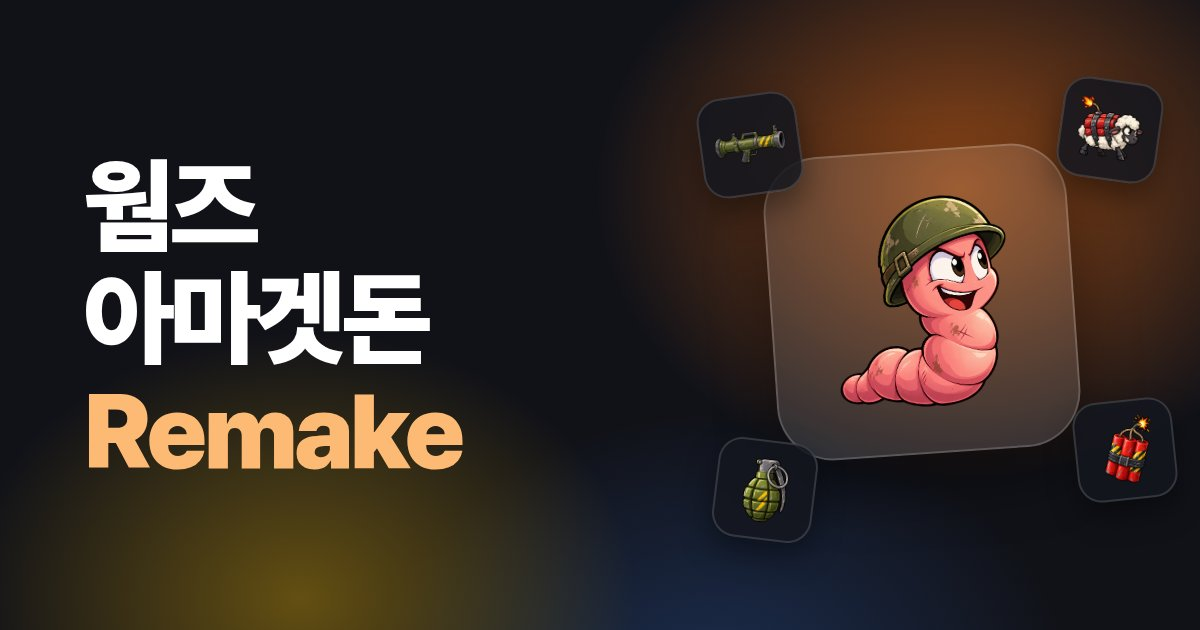
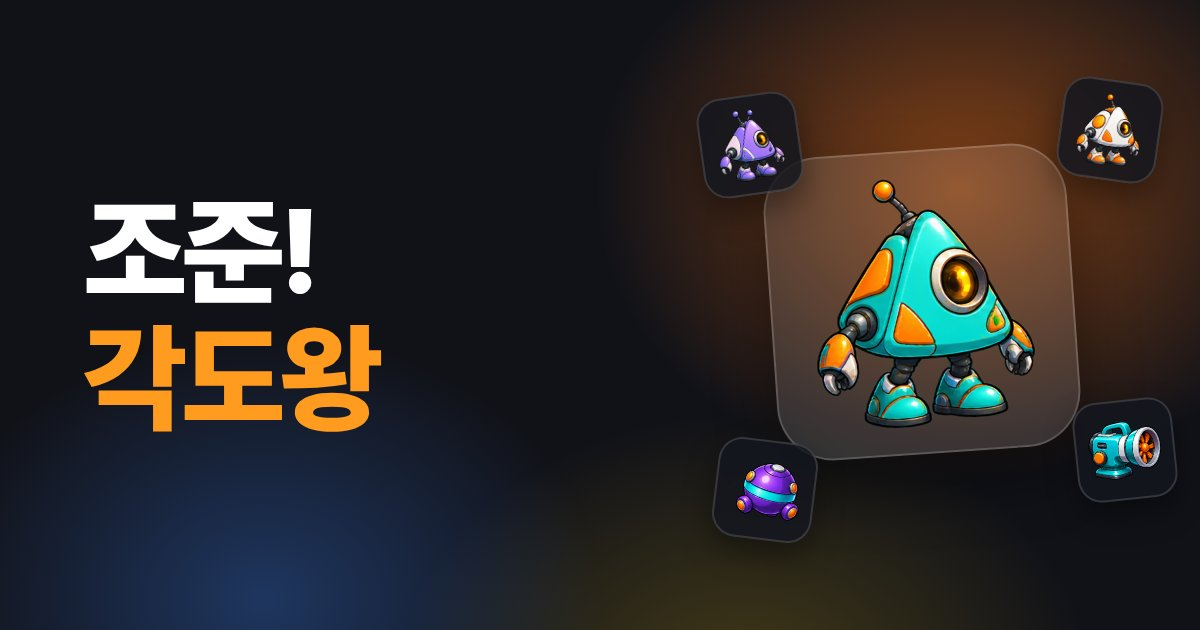
웜즈 카드를 '조준! 각도왕'으로 바꾸고 수업용에 뚝딱 바이브 공작소 추가 (#49)
- 여가용 카드 이름·설명·아이콘·커버(로봇 캐릭터, ?v=20261025)를 앱의 새 이름에 맞춤
- 수업용 마지막(생각의 갈림길 AI 뒤)에 뚝딱 바이브 공작소 카드·커버 추가
- 스킬 앱 목록·배치 메모 반영

Claude-Session: https://claude.ai/code/session_01NaW5r8WBzNy5B2e9iMgdZz

diff --git a/index.html b/index.html
@@ -889,6 +889,16 @@
                 url: 'https://gmlduqzhd123-lab.github.io/Thinking/'
             },
             {
+                id: 'vibe-for-u',
+                cover: 'covers/vibe-for-u.jpg',
+                accent: '#8b5cf6',
+                name: '뚝딱 바이브 공작소',
+                category: '수업용',
+                icon: '🛠',
+                desc: '목표→요청→실행→검사·수정→설명으로 바이브 코딩을 체험하는 12개 미션 (초등 5~6학년)',
+                url: 'https://gmlduqzhd123-lab.github.io/Vibe-for-U/'
+            },
+            {
                 id: 'for-teacher',
                 featured: true,
                 cover: 'covers/for-teacher.jpg',
@@ -1001,12 +1011,12 @@
             },
             {
                 id: 'worms',
-                cover: 'covers/worms.jpg',
+                cover: 'covers/worms.jpg?v=20261025',
                 accent: '#f97316',
-                name: '웜즈 아마겟돈(Remake)',
+                name: '조준! 각도왕',
                 category: '여가용',
-                icon: '🪱',
-                desc: '바람을 읽고 한 방을 노리는 턴제 포격전 · 10가지 전장 테마, CPU 대전, 설치 없이 바로',
+                icon: '🎯',
+                desc: '각도와 바람을 읽고 조준하는 수학 각도 학습 게임 · CPU·2인 턴제 대전',
                 url: 'https://gmlduqzhd123-lab.github.io/Worms/'
             },
             {

diff --git a/.claude/skills/yeopssam-webapps/references/top-buttons-check.md b/.claude/skills/yeopssam-webapps/references/top-buttons-check.md
@@ -47,5 +47,5 @@
 - 패들렛 정리함: 1줄 = 제목 + 설치·QR, 2줄 = 「로컬 가져오기」.
 - 한글 마감실: 1줄 = 「한 한글 마감실」 + 설치·QR, 2줄 = 메뉴·시험판 표시.
 - 지도안 대백과: 헤더 오른쪽(휴대폰은 ☰ 옆).
-- 웜즈: 게임 시작 화면 패널 맨 윗줄 오른쪽.
+- 조준! 각도왕(옛 웜즈): 게임 시작 화면 패널 맨 윗줄 오른쪽.
 - 화재 탈출 넘버원: 메인 화면 카드 맨 윗줄 오른쪽(가로 전용 게임이라 세로 휴대폰은 '가로로 돌려주세요' 안내 화면 오른쪽 위). Tailwind CDN 사용.
